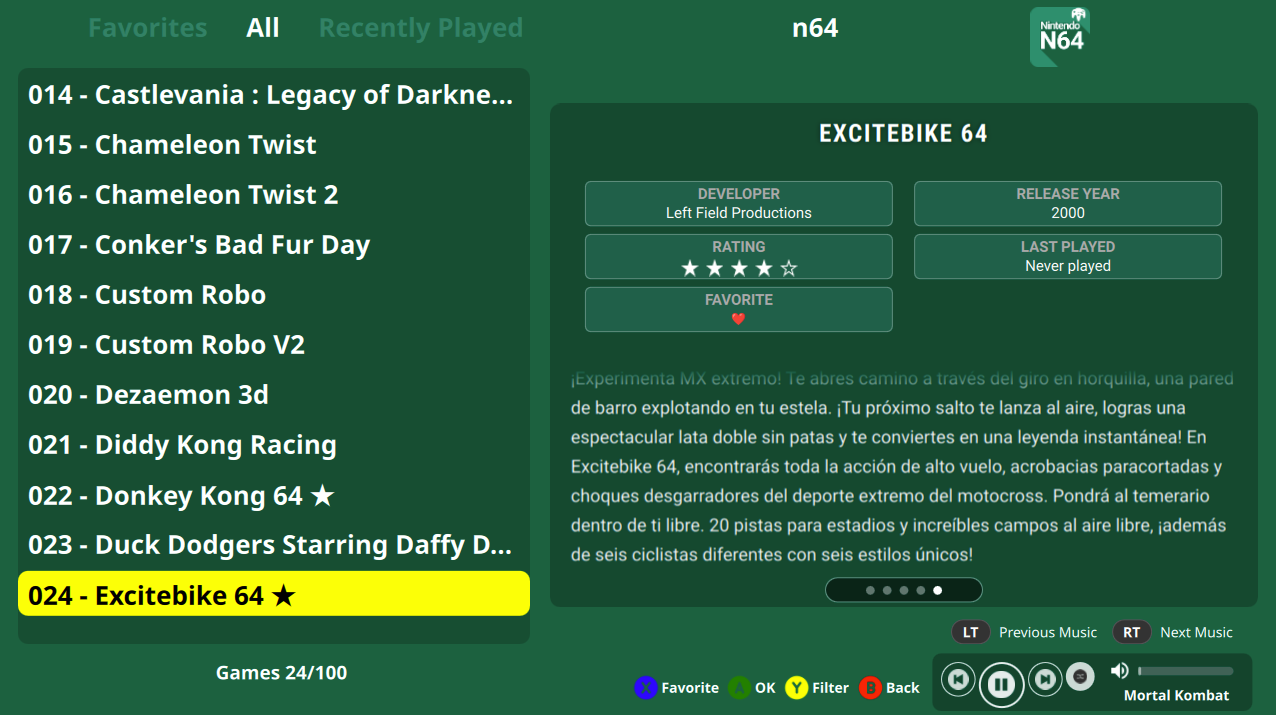
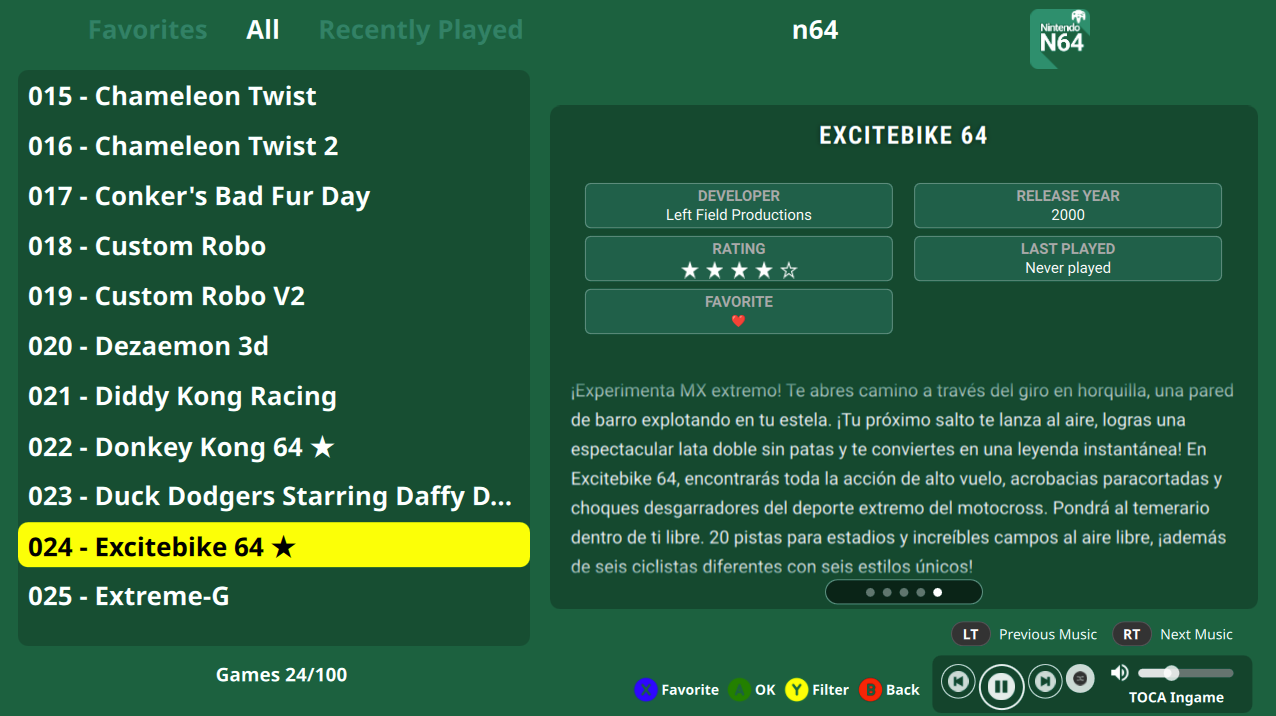
update-21-7-25

diff --git a/GameInfo.qml b/GameInfo.qml
@@ -308,6 +308,7 @@ Item {
                         lineHeight: 1.4
                         textFormat: Text.RichText
                         onLinkActivated: Qt.openUrlExternally(link)
+                        topPadding: contentBounds.height * 0.02
 
                         layer.enabled: true
                         layer.effect: DropShadow {

diff --git a/README.md b/README.md
@@ -2,7 +2,7 @@
 
 - A theme for Pegasus Frontend.
 
-> ⚠ The theme will be subject to future updates with the intention of improving the user experience.
+> 📢 No more updates for now, but if you have any suggestions, they're very welcome!
 
 ![screen](https://github.com/ZagonAb/Anbernic-Theme/blob/01ac7c262834524683c913f335ce5d3c2463d312/.meta/screenshots/screen0.png)
 
